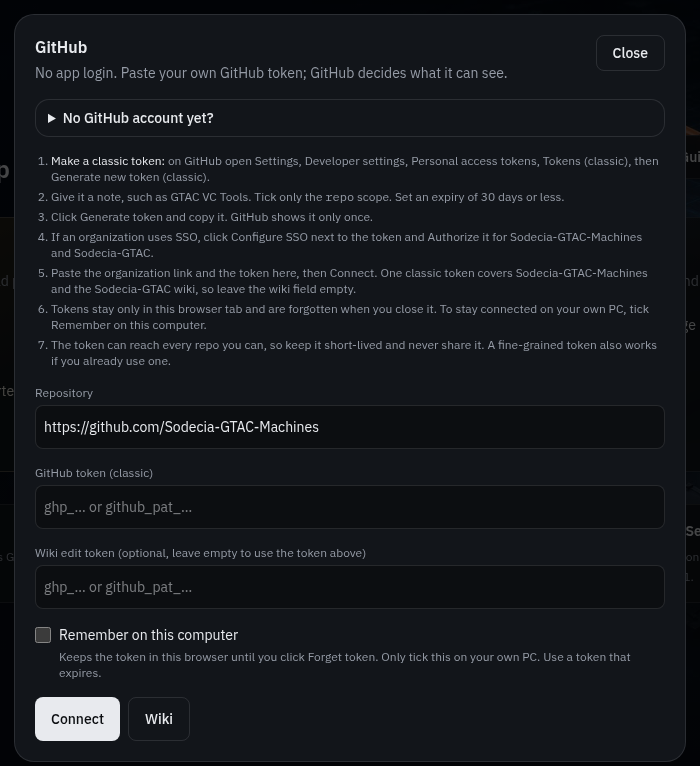
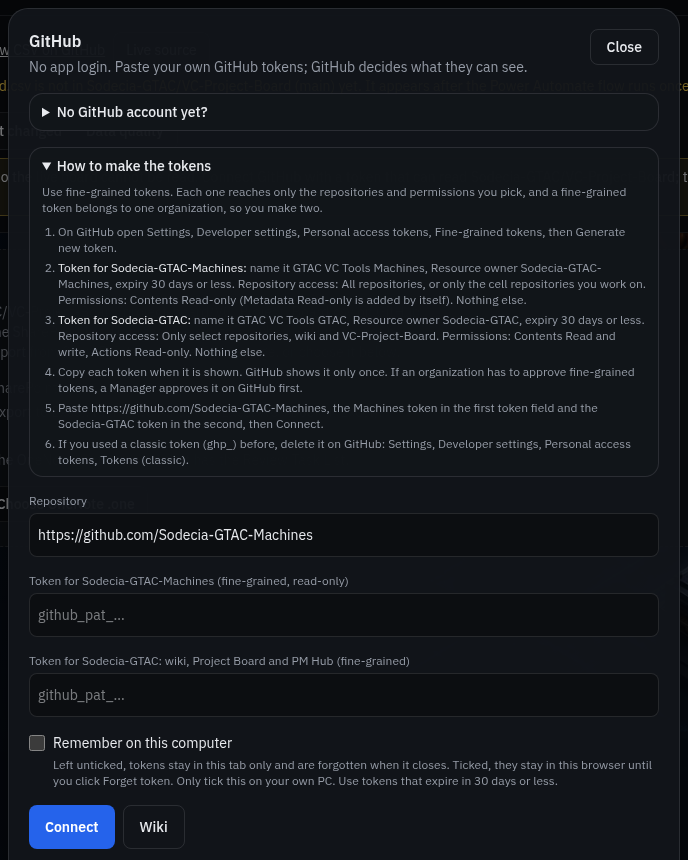
GTAC VC Tools: fine-grained GitHub tokens, a Manager grants access, Local Server sign-in when shared

diff --git a/GTAC VC Tools/GTAC VC Tools.md b/GTAC VC Tools/GTAC VC Tools.md
@@ -419,7 +419,7 @@ If the flow could read the page but not the table, an amber box says "The last O
 
 ### Access
 
-You need your classic GitHub token (repo scope), authorized for SSO; see [GitHub](#github). To save customers, milestones and notes for everyone you also need Write access to VC-Project-Board. Ask Dave. Without it, the Customers tab is read-only and milestones stay in your browser.
+You need your GTAC token (fine-grained, Sodecia-GTAC, Contents: Read and write on VC-Project-Board); see [GitHub](#github). To save customers, milestones and notes for everyone you also need Write access to VC-Project-Board. Ask a Manager. Without it, the Customers tab is read-only and milestones stay in your browser.
 
 ## GitHub
 
@@ -434,29 +434,31 @@ There is no app login, name picker, or app 2FA code. Your own GitHub token is th
 1. Go to https://github.com/signup. Enter your work email, a password and a username your teammates will recognise, then solve the check.
 2. Enter the code GitHub emails you to verify your email.
 3. Turn on two-factor authentication: profile picture, Settings, Password and authentication, Enable two-factor authentication. The organizations may require it before you can join.
-4. Send your GitHub username to Dave Bergman or your team lead and ask to be invited to the Sodecia-GTAC-Machines and Sodecia-GTAC organizations, and to the VC-Project-Board repository for the Project Board and PM Hub. Dave is an admin of both organizations, so the invitation comes from him or your team lead.
+4. Send your GitHub username to a Manager and ask to be invited to the Sodecia-GTAC-Machines and Sodecia-GTAC organizations, and to the VC-Project-Board repository for the Project Board and PM Hub. The invitation comes from a Manager.
 5. Accept each invitation from the email, or at https://github.com/orgs/Sodecia-GTAC-Machines/invitation and https://github.com/orgs/Sodecia-GTAC/invitation. Invitations expire after 7 days.
-6. Then make your classic token below.
+6. Then make your two tokens below.
 
 ### Token
 
-Make one classic token on GitHub. It covers Sodecia-GTAC-Machines and the Sodecia-GTAC wiki.
+Make two fine-grained tokens on GitHub. A fine-grained token reaches only the repositories and permissions you pick, and it belongs to one organization, so there is one for each.
 
-1. On GitHub open Settings, Developer settings, Personal access tokens, Tokens (classic), then Generate new token (classic).
-2. Give it a note, such as GTAC VC Tools.
-3. Tick only the repo scope.
-4. Set an expiry of 30 days or less.
-5. Click Generate token and copy it. The value is shown once. It starts with ghp_.
-6. If an organization uses SSO, click Configure SSO next to the token and Authorize it for Sodecia-GTAC-Machines and Sodecia-GTAC.
+1. On GitHub open Settings, Developer settings, Personal access tokens, Fine-grained tokens, then Generate new token.
+2. **Machines token**: name GTAC VC Tools Machines, Resource owner Sodecia-GTAC-Machines, expiry 30 days or less. Repository access: All repositories, or only the cell repositories you work on. Permissions: Contents: Read-only. Nothing else.
+3. **GTAC token**: name GTAC VC Tools GTAC, Resource owner Sodecia-GTAC, expiry 30 days or less. Repository access: Only select repositories, wiki and VC-Project-Board. Permissions: Contents: Read and write, Actions: Read-only. Nothing else.
+4. Click Generate token and copy each one. The value is shown once. It starts with github_pat_.
+5. If an organization has to approve fine-grained tokens, a Manager approves it on GitHub first.
+6. If you have an older classic token (it starts with ghp_), delete it: Settings, Developer settings, Personal access tokens, Tokens (classic).
 
-The token can reach every repo you can, so keep it short-lived and never share it. A fine-grained token also works if you already use one; give it Contents: Read and write and Actions: Read on VC-Project-Board. Without Actions: Read the board and PM Hub still work, but the data note cannot tell whether the weekday export is running, so it only says when the data last changed.
+Never share a token. Without Actions: Read-only on the GTAC token the board and PM Hub still work, but the data note cannot tell whether the weekday export is running, so it only says when the data last changed.
+
+A classic token still connects, but it can read and change every repository your GitHub account can reach. After Connect the panel marks it in amber, names any other broad scopes it has, and shows How to make the tokens. A fine-grained token is marked in teal. While you type a token, an amber hint appears under the field if it starts with ghp_. The panel never shows a token.
 
 ### Connect
 
 1. Click GitHub.
 2. Paste https://github.com/Sodecia-GTAC-Machines in Repository. The address has to be real text in the box, not the gray hint.
-3. Paste the token in GitHub token (classic).
-4. Leave Wiki edit token empty. The same token is used for the wiki.
+3. Paste the Machines token in Token for Sodecia-GTAC-Machines.
+4. Paste the GTAC token in Token for Sodecia-GTAC: wiki, Project Board and PM Hub.
 5. Optional: tick Remember on this computer, only on your own PC.
 6. Click Connect.
 
@@ -464,7 +466,7 @@ Tokens stay only in that browser tab and are forgotten when the tab closes, unle
 
 What this browser keeps, in the panel, lists what stays on this PC: the token (only with Remember on this computer), the last board data and its history, the fixture reviews, the cached customer list, your tool work and your preferences. Forget token and clear this PC's cached data forgets the token and removes the board data, history, fixture reviews and cached customer list from this browser, then reloads. Tool work, PM Hub milestones and notes not yet saved to GitHub, and preferences stay. Use it on a shared PC.
 
-If GitHub refuses the token, the panel says why. For SSO, authorize the token with Configure SSO.
+If GitHub refuses a token, the panel says why. If an organization does not accept a fine-grained token yet, a Manager may still have to approve it.
 
 ### Projects
 
@@ -486,13 +488,18 @@ Edit opens the markdown for the page you are on. Save commits it to main. New pa
 
 If someone else saves the same page while you are editing, Save does not overwrite their change. A message says Someone else saved this page after you started editing, with Compare with their version, Copy my text and Open their version. Copy your text, open their version, and add your change to it.
 
-Saving uses your classic GitHub token (repo scope), since the Wiki edit token field is left empty.
+Saving uses your GTAC token. It needs Contents: Read and write on the wiki repository.
 
 ## Local Server
 
-Run a copy on Ubuntu 24.04 Desktop or Windows 11. Local Server shows the download, vc-tools-local.zip, and the install steps for each system. It needs no password. A publish does not change a Local Server that is already running. Download the zip again and follow When the app changes.
+Run a copy on Ubuntu 24.04 Desktop or Windows 11. Local Server shows the download, vc-tools-local.zip, and the install steps for each system. On its own PC it needs no password. A publish does not change a Local Server that is already running. Download the zip again and follow When the app changes.
 
-The install script installs the exact package versions in the zip and builds the app; if a step fails it stops with a message. The start script serves that build at http://localhost:8080, and only that PC can open it. To let other PCs on the plant network open it, start it with bash start-ubuntu.sh --lan on Ubuntu, or add -Lan to the Windows start command. It has no sign-in and uses plain HTTP, so share it only on the plant network, allow port 8080 from the plant subnet only, and never open it to the internet or guest Wi-Fi. INSTALL.txt in the zip has the firewall steps.
+The install script installs the exact package versions in the zip and builds the app; if a step fails it stops with a message. The start script serves that build at http://localhost:8080, and only that PC can open it. To let other PCs on the plant network open it, start it with bash start-ubuntu.sh --lan on Ubuntu, or add -Lan to the Windows start command. Everyone then signs in first:
+
+- **Access key**: the first start makes a random key and keeps it in vc-lan-access-secret.txt in the vc-tools folder. Open that file to read it; the start message never shows it. A Manager gives it to the people who use that server. Each browser asks once and stays signed in for 12 hours or until the server restarts. Ten wrong keys from one PC wait 15 minutes.
+- **Microsoft Entra ID**: once IT registers the app, people sign in with their Sodecia Microsoft account instead, and IT decides who gets in. OFFICE-SERVER-SIGN-IN.md in the app's GitHub repository has the steps for IT.
+
+With the plant's certificate (VC_TLS_CERT_FILE and VC_TLS_KEY_FILE) it uses HTTPS. Without it the connection is plain HTTP, and the start message and the sign-in page say so: share it only on the plant network, allow port 8080 from the plant subnet only, and never open it to the internet or guest Wi-Fi. INSTALL.txt in the zip has the firewall steps.
 
 ## Framework trim
 
